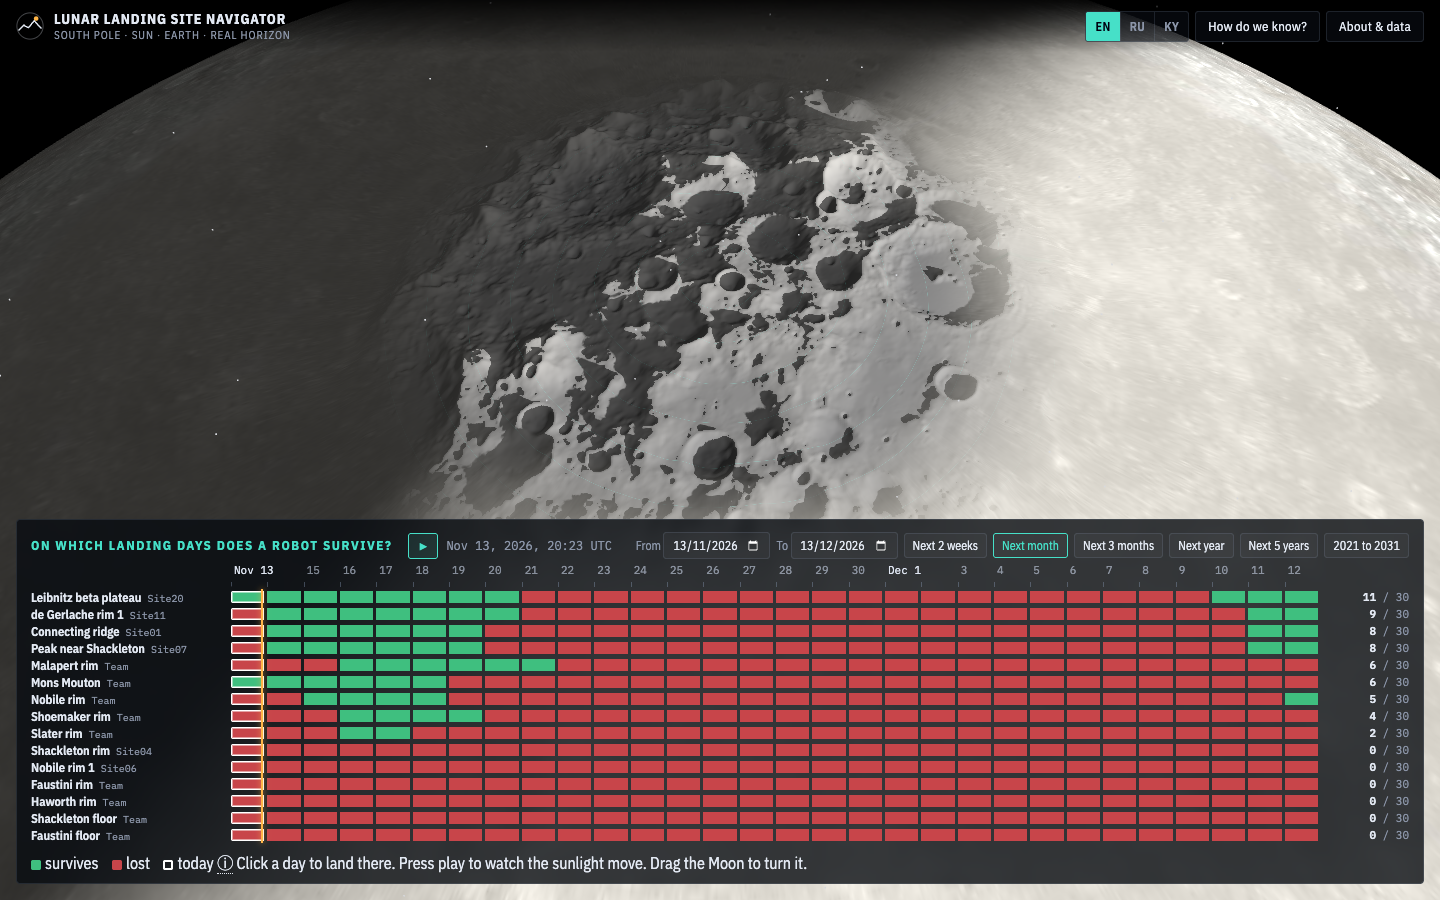
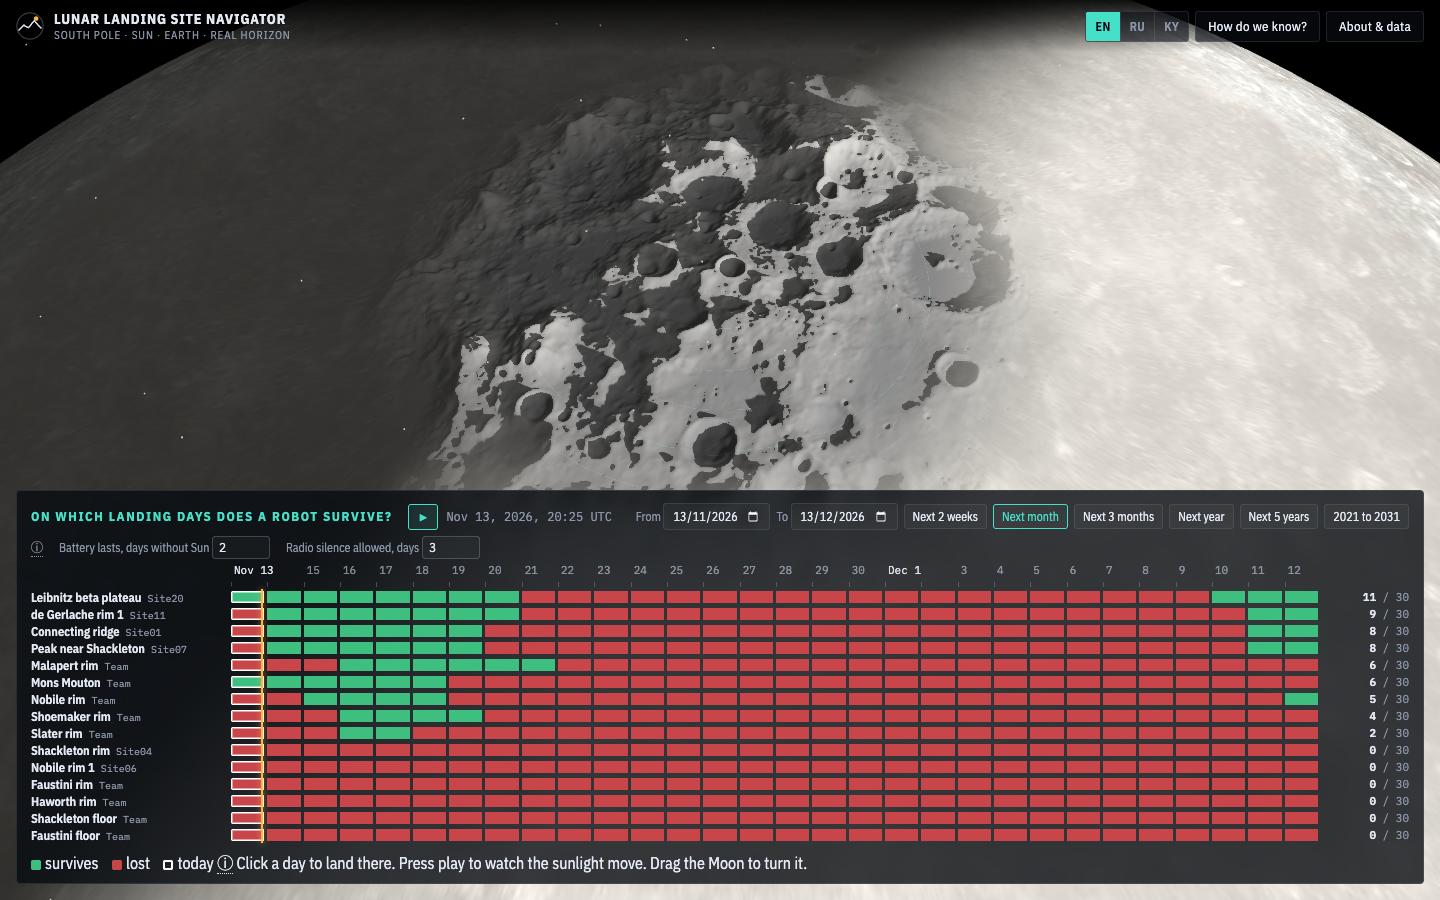
Mission limits are the user's: battery and radio-silence days can be set on the first screen, every site and day is judged again, the address carries a changed limit

diff --git a/app/i18n.js b/app/i18n.js
@@ -3,6 +3,10 @@
 (function (root) {
   const S = {
   "en": {
+    "aBattery": "Battery lasts, days without Sun",
+    "aRadio": "Radio silence allowed, days",
+    "aReset": "Reset",
+    "aLimitsTip": "Your mission, your limits. Green and red are judged with these two numbers: how long the battery carries the robot with the Sun hidden, and how long it may go without a direct link to Earth. 2 and 3 days are our example values, not NASA requirements. Change them and every site and day is judged again.",
     "sAt": "Sky at",
     "sSun": "Sun",
     "sEarth": "Earth",
@@ -36,9 +40,9 @@
     "colLimit": "Limit",
     "lEva": "under 20°",
     "lLight": "within 24 h",
-    "lNight": "at most 2 days",
+    "lNight": "at most {n} days",
     "lPole": "within 6°",
-    "lRadio": "at most 3 days",
+    "lRadio": "at most {n} days",
     "lSlope": "under 10°",
     "m5Next": "1 day",
     "m5Note": "Days in the past are history and days ahead are a prediction: Sun and Earth positions are calculated for each day from the orbit model, and the terrain does not change.",
@@ -47,7 +51,7 @@
     "m5Today": "Today",
     "mFail": "THE ROBOT WAS LOST",
     "mLostShort": "lost",
-    "mNote": "The 2 day battery, the 3 day radio limit and the first day Sun rule are teaching values chosen by the team. The slope and pole limits are NASA Artemis III requirements. Landing is at 00:00 UTC. Sun up means at least half of its disc is above the real terrain.",
+    "mNote": "The battery and radio limits (2 and 3 days unless you change them on the first screen) and the first day Sun rule are example values chosen by the team, not NASA requirements. The slope and pole limits are NASA Artemis III requirements. Landing is at 00:00 UTC. Sun up means at least half of its disc is above the real terrain.",
     "mOkShort": "survives",
     "mPass": "THE ROBOT SURVIVED",
     "mWhyBoth": "This spot lost both the Sun and Earth for too long.",
@@ -89,6 +93,10 @@
     "vYear": "year"
   },
   "ru": {
+    "aBattery": "Батареи хватает, дней без Солнца",
+    "aRadio": "Допустимо без связи, дней",
+    "aReset": "Сбросить",
+    "aLimitsTip": "Ваша миссия, ваши пределы. Зелёный и красный считаются по этим двум числам: сколько батарея держит робота, пока Солнце скрыто, и сколько он может быть без прямой связи с Землёй. 2 и 3 дня: наши примерные значения, не требования NASA. Измените их, и каждое место и каждый день будут оценены заново.",
     "sAt": "Небо на",
     "sSun": "Солнце",
     "sEarth": "Земля",
@@ -122,9 +130,9 @@
     "colLimit": "Предел",
     "lEva": "меньше 20°",
     "lLight": "в первые 24 ч",
-    "lNight": "не больше 2 дней",
+    "lNight": "не больше {n} дн.",
     "lPole": "в пределах 6°",
-    "lRadio": "не больше 3 дней",
+    "lRadio": "не больше {n} дн.",
     "lSlope": "меньше 10°",
     "m5Next": "1 день",
     "m5Note": "Прошедшие дни: история, будущие: прогноз. Положения Солнца и Земли рассчитываются для каждого дня по модели орбит, рельеф не меняется.",
@@ -133,7 +141,7 @@
     "m5Today": "Сегодня",
     "mFail": "РОБОТ ПОТЕРЯН",
     "mLostShort": "потерян",
-    "mNote": "Батарея на 2 дня, предел радио 3 дня и правило Солнца в первый день: учебные значения команды. Пределы уклона и расстояния от полюса: требования NASA Artemis III. Посадка в 00:00 UTC. Солнце светит, когда над настоящим рельефом видно не меньше половины диска.",
+    "mNote": "Пределы батареи и радио (2 и 3 дня, если не изменить их на первом экране) и правило Солнца в первый день: примерные значения команды, не требования NASA. Пределы уклона и расстояния от полюса: требования NASA Artemis III. Посадка в 00:00 UTC. Солнце светит, когда над настоящим рельефом видно не меньше половины диска.",
     "mOkShort": "выживает",
     "mPass": "РОБОТ ВЫЖИЛ",
     "mWhyBoth": "В этом месте и Солнце, и Земля пропали слишком надолго.",
@@ -175,6 +183,10 @@
     "vYear": "год"
   },
   "ky": {
+    "aBattery": "Батарея жетет, Күнсүз күн",
+    "aRadio": "Байланышсыз уруксат, күн",
+    "aReset": "Баштапкы",
+    "aLimitsTip": "Сиздин миссия, сиздин чектер. Жашыл жана кызыл ушул эки сан менен эсептелет: Күн жашырылганда батарея роботту канча кармайт жана ал Жер менен түз байланышсыз канча тура алат. 2 жана 3 күн: биздин мисал маанилер, NASA талаптары эмес. Өзгөртсөңүз, ар бир жер жана ар бир күн кайра бааланат.",
     "sAt": "Асман",
     "sSun": "Күн",
     "sEarth": "Жер",
@@ -208,9 +220,9 @@
     "colLimit": "Чек",
     "lEva": "20° төмөн",
     "lLight": "24 саат ичинде",
-    "lNight": "2 күндөн ашпайт",
+    "lNight": "{n} күндөн ашпайт",
     "lPole": "6° ичинде",
-    "lRadio": "3 күндөн ашпайт",
+    "lRadio": "{n} күндөн ашпайт",
     "lSlope": "10° төмөн",
     "m5Next": "1 күн",
     "m5Note": "Өткөн күндөр: тарых, келечек күндөр: болжолдоо. Күн менен Жердин орду ар бир күн үчүн орбита модели боюнча эсептелет, рельеф өзгөрбөйт.",
@@ -219,7 +231,7 @@
     "m5Today": "Бүгүн",
     "mFail": "РОБОТ ЖОГОЛДУ",
     "mLostShort": "жоголду",
-    "mNote": "2 күндүк батарея, 3 күндүк радио чеги жана биринчи күнкү Күн эрежеси: команда тандаган окуу маанилери. Эңкейиш жана уюлдан аралык чектери: NASA Artemis III талаптары. Конуу 00:00 UTC. Күн чыгып турат дегени: дисктин жарымынан көбү чыныгы рельефтен жогору.",
+    "mNote": "Батарея жана радио чектери (биринчи экранда өзгөртпөсө 2 жана 3 күн) жана биринчи күнкү Күн эрежеси: команда тандаган мисал маанилер, NASA талаптары эмес. Эңкейиш жана уюлдан аралык чектери: NASA Artemis III талаптары. Конуу 00:00 UTC. Күн чыгып турат дегени: дисктин жарымынан көбү чыныгы рельефтен жогору.",
     "mOkShort": "аман калат",
     "mPass": "РОБОТ АМАН КАЛДЫ",
     "mWhyBoth": "Бул жерде Күн да, Жер да өтө узакка жоголду.",

diff --git a/app/src/allsites.js b/app/src/allsites.js
@@ -20,7 +20,8 @@ export function dayVerdicts(sky, slope, evaSlope, days) {
 }
 
 /** root: the panel element. sites: [{ id, name, ref, dir, slope, evaSlope }]. p0, p1: period (unix s). onPick(id, t or null). */
-export function allSites(root, { sites, days, p0, p1, onPick, onHover = () => {}, onTime = () => {}, onPlay = () => {} }) {
+export function allSites(root, { sites, days, p0, p1, onPick, onHover = () => {}, onTime = () => {}, onPlay = () => {}, onLimits = () => {} }) {
+  const Mi = globalThis.Mission;
   const nd = Math.floor(((p1 - p0) / 3600 + 1 - days * 24) / 24) + 1;
   const today = Math.floor(Date.now() / 1000 / DAY) * DAY, td = Math.round((today - p0) / DAY);
   const clampDay = (d) => Math.min(Math.max(d, 0), nd);
@@ -33,6 +34,7 @@ export function allSites(root, { sites, days, p0, p1, onPick, onHover = () => {}
       <label><span></span> <input type="date" id="a-from" min="${iso(p0)}" max="${iso(p0 + (nd - 1) * DAY)}"></label>
       <label><span></span> <input type="date" id="a-to" min="${iso(p0 + DAY)}" max="${iso(p0 + nd * DAY)}"></label>
       <button data-y="2w"></button><button data-y="1m"></button><button data-y="0.25"></button><button data-y="1"></button><button data-y="5"></button><button data-y="0"></button></div></div>
+    <div class="a-mission"><span class="tip" tabindex="0">ⓘ</span> <label><span></span> <input id="a-night" type="number" min="0" max="30" step="0.5"></label><label><span></span> <input id="a-radio" type="number" min="0" max="30" step="0.5"></label><button id="a-reset"></button></div>
     <div class="a-row a-axis"><span></span><canvas></canvas><span></span></div>
     <ol id="sites"><div id="a-headline"></div></ol>
     <p class="v-key"><i class="ok"></i><span></span> <i class="bad"></i><span></span> <i class="cur"></i><span></span> <span class="tip" tabindex="0">ⓘ</span> <span class="a-hint"></span></p>
@@ -142,6 +144,10 @@ export function allSites(root, { sites, days, p0, p1, onPick, onHover = () => {}
     const key = root.querySelectorAll('.v-key > span');
     key[0].textContent = L('mOkShort'); key[1].textContent = L('mLostShort'); key[2].textContent = L('aToday');
     key[3].dataset.tip = L('aTip'); key[4].textContent = L('aHint');
+    const [ln, lr] = root.querySelectorAll('.a-mission label span'); ln.textContent = L('aBattery'); lr.textContent = L('aRadio');
+    root.querySelector('.a-mission .tip').dataset.tip = L('aLimitsTip'); root.querySelector('#a-reset').textContent = L('aReset');
+    for (const [id, k] of [['#a-night', 'nightH'], ['#a-radio', 'silenceH']]) { const el = root.querySelector(id); if (document.activeElement !== el) el.value = +(Mi.limits[k] / 24).toFixed(1); }
+    root.querySelector('#a-reset').hidden = Mi.limits.nightH === Mi.NIGHT_LIMIT_H && Mi.limits.silenceH === Mi.SILENCE_LIMIT_H;
     paintAxis();
     for (const s of sites) {
       s.good = paintRow(s);
@@ -162,13 +168,25 @@ export function allSites(root, { sites, days, p0, p1, onPick, onHover = () => {}
   redraw();
   (async () => {
     for (const s of sites) {
-      s.v = dayVerdicts(await loadSky(s.dir), s.slope, s.evaSlope, days);
+      s.sky = await loadSky(s.dir);
+      s.v = dayVerdicts(s.sky, s.slope, s.evaSlope, days);
       redraw();
       await new Promise((r) => setTimeout(r)); // let the row paint before the next site is computed
     }
     st.ready = true; redraw();
   })();
   root.querySelector('#a-play').onclick = () => onPlay();
+  // The mission's own limits: every site and day is judged again with them, here and on the site screen.
+  function setLimits(nightDays, radioDays) {
+    const ok = (v) => Number.isFinite(v) && v >= 0 && v <= 30;
+    if (ok(nightDays)) Mi.limits.nightH = nightDays * 24;
+    if (ok(radioDays)) Mi.limits.silenceH = radioDays * 24;
+    for (const s of sites) if (s.sky) s.v = dayVerdicts(s.sky, s.slope, s.evaSlope, days);
+    redraw(); onLimits();
+  }
+  root.querySelector('#a-night').onchange = (e) => setLimits(+e.target.value, NaN);
+  root.querySelector('#a-radio').onchange = (e) => setLimits(NaN, +e.target.value);
+  root.querySelector('#a-reset').onclick = () => setLimits(Mi.NIGHT_LIMIT_H / 24, Mi.SILENCE_LIMIT_H / 24);
   /** Moves the time line over the rows and writes the clock. t: unix s. */
   const head = root.querySelector('#a-headline'), clock = root.querySelector('#a-clock'), play = root.querySelector('#a-play');
   function setHead(t, playing) {
@@ -179,5 +197,5 @@ export function allSites(root, { sites, days, p0, p1, onPick, onHover = () => {}
     if (clock.textContent !== txt) clock.textContent = txt;
     play.textContent = playing ? '❚❚' : '▶'; play.title = L('aPlay');
   }
-  return { redraw, setHead, range: () => [p0 + st.a * DAY, p0 + st.b * DAY] };
+  return { redraw, setHead, setLimits, range: () => [p0 + st.a * DAY, p0 + st.b * DAY] };
 }

diff --git a/app/mission.js b/app/mission.js
@@ -1,11 +1,13 @@
 // The survival rules for a solar robot staying 14 days. Pure logic, checked at every boundary by tools/test.cjs.
 (function (root) {
-  // Teaching values chosen by the team, not NASA requirements.
+  // Example values chosen by the team, not NASA requirements. The first two are defaults: the user can change them
+  // on the first screen (limits.nightH, limits.silenceH), because a real mission knows its own battery and radio.
   const NIGHT_LIMIT_H = 48; // the battery carries the robot through two days of darkness
   const SILENCE_LIMIT_H = 72; // three days without direct Earth contact and the mission is lost
   const FIRST_SUN_H = 24; // the Sun must be up at landing or rise within a day, so the robot can charge
   const STAY_DAYS = 14;
   const SLOPE_LIMIT = 10, EVA_SLOPE_LIMIT = 20, POLE_LIMIT_DEG = 6; // NASA Artemis III landing site requirements
+  const limits = { nightH: NIGHT_LIMIT_H, silenceH: SILENCE_LIMIT_H };
 
   // x: { m: { longestDarkH, longestBlackoutH, sunPct, earthPct, bothPct, sunElMax, commWindows }, waitH: hours until the
   // Sun is first up (0 when up at landing, Infinity when it never rises in the stay), slope, evaSlope, lat }.
@@ -13,8 +15,8 @@
   function judge(x) {
     const m = x.m;
     return [
-      { id: 'night', pri: 'must', ok: m.longestDarkH <= NIGHT_LIMIT_H, v: m.longestDarkH },
-      { id: 'radio', pri: 'must', ok: m.longestBlackoutH <= SILENCE_LIMIT_H, v: m.longestBlackoutH },
+      { id: 'night', pri: 'must', ok: m.longestDarkH <= limits.nightH, v: m.longestDarkH },
+      { id: 'radio', pri: 'must', ok: m.longestBlackoutH <= limits.silenceH, v: m.longestBlackoutH },
       { id: 'light', pri: 'must', ok: x.waitH < FIRST_SUN_H, v: x.waitH },
       { id: 'slope', pri: 'must', ok: x.slope < SLOPE_LIMIT, v: x.slope },
       { id: 'eva', pri: 'should', ok: x.evaSlope < EVA_SLOPE_LIMIT, v: x.evaSlope },
@@ -27,7 +29,7 @@
     ];
   }
 
-  const Mission = { NIGHT_LIMIT_H, SILENCE_LIMIT_H, FIRST_SUN_H, STAY_DAYS, SLOPE_LIMIT, EVA_SLOPE_LIMIT, POLE_LIMIT_DEG, judge };
+  const Mission = { NIGHT_LIMIT_H, SILENCE_LIMIT_H, FIRST_SUN_H, STAY_DAYS, SLOPE_LIMIT, EVA_SLOPE_LIMIT, POLE_LIMIT_DEG, limits, judge };
   if (typeof module !== 'undefined' && module.exports) module.exports = Mission;
   else root.Mission = Mission;
 })(typeof globalThis !== 'undefined' ? globalThis : this);

diff --git a/app/src/main.js b/app/src/main.js
@@ -51,9 +51,11 @@ const missionEnd = () => Math.min(S.missionStart + S.missionDays * 86400, period
 
 function setHash() {
   // One short address: the site and the landing day. Expert state (stay length, clock time, centre point) is not kept in it.
-  const p = new URLSearchParams();
+  const p = new URLSearchParams(), Mi = globalThis.Mission;
   if (S.mode === 'surface') p.set('site', S.siteId);
   p.set('land', isoLocal(S.missionStart).slice(0, 10));
+  if (Mi.limits.nightH !== Mi.NIGHT_LIMIT_H) p.set('battery', Mi.limits.nightH / 24); // only when the user changed a limit
+  if (Mi.limits.silenceH !== Mi.SILENCE_LIMIT_H) p.set('radio', Mi.limits.silenceH / 24);
   history.replaceState(null, '', location.pathname + '#' + p.toString());
 }
 
@@ -72,6 +74,7 @@ function buildSiteList() {
     sites: S.index.sites.map((s) => { const v = s.variants[spot(s)]; return { id: s.id, name: s.name, ref: s.ref, dir: v.dir, slope: v.slope_deg, evaSlope: S.extra[v.dir] ?? v.slope_deg }; }),
     days: S.missionDays, p0: periodStart(), p1: periodEnd(),
     onHover: hot,
+    onLimits: () => { setHash(); drawVerdict(); },
     onTime: (t) => { S.mapT = t; S.mapPlay = false; },
     onPlay: () => { S.mapPlay = !S.mapPlay; },
     onPick: (id, t) => { if (t != null) { S.missionStart = t; S.t = t; } enterSite(id, spot(siteEntry(id))); },
@@ -568,6 +571,7 @@ function frame(now) {
     S.missionStart = Number.isFinite(landing) ? landing : periodStart();
     S.missionDays = 14; // the survival limits are set for a 14 day stay; "Details" can change it
     S.mapT = Math.floor(Date.now() / 1000);
+    for (const [k, f] of [['battery', 'nightH'], ['radio', 'silenceH']]) { const v = parseFloat(p.get(k)); if (v >= 0 && v <= 30) globalThis.Mission.limits[f] = v * 24; }
     buildSiteList();
     const t = S.missionStart;
     S.t = Number.isFinite(t) ? t : S.missionStart;

diff --git a/app/css/app.css b/app/css/app.css
@@ -322,3 +322,8 @@ body.mode-surface .skymark { display: none !important; }
 #sky-when { background: #0d1118; border: 1px solid var(--line-2); border-radius: 3px; padding: 3px 6px; color: var(--text); font: 12px var(--mono); color-scheme: dark; }
 #skybar strong { font: 600 22px var(--mono); min-width: 92px; } #skybar .sun strong { color: var(--sun); } #skybar .earth strong { color: var(--earth); }
 #skybar span { font-size: 11px; line-height: 1.35; color: var(--muted); } #skybar b { width: auto; min-width: 44px; }
+/* the mission's own limits, on the first screen */
+.a-mission { display: flex; flex-wrap: wrap; gap: 6px 16px; align-items: center; font-size: 12px; color: var(--muted); margin: 0 0 6px; }
+.a-mission input { width: 58px; background: rgba(255,255,255,.03); border: 1px solid var(--line-2); border-radius: 3px; padding: 3px 6px; color: var(--text); font: 12px var(--mono); color-scheme: dark; }
+.a-mission button { background: none; border: 1px solid var(--line); border-radius: 3px; color: var(--muted); padding: 3px 8px; font: inherit; cursor: pointer; }
+.a-mission .tip { position: relative; cursor: help; }

diff --git a/app/src/verdict.js b/app/src/verdict.js
@@ -26,7 +26,8 @@ function cells(r) {
   const pct = (v) => L('vOfStay', { p: v.toFixed(0) }), deg = (v) => v.toFixed(1) + '°', d = (h) => L('vDays', { t: (h / 24).toFixed(1) });
   const value = { night: d, radio: d, light: (h) => (!h ? L('vUp') : h < Infinity ? L('vAfter', { t: h.toFixed(0) }) : L('vNone')), slope: deg, eva: deg, pole: deg,
     sunPct: pct, earthPct: pct, bothPct: pct, sunMax: deg, windows: (v) => v }[r.id](r.v);
-  return [value, r.pri === 'info' ? '' : L('l' + cap(r.id))];
+  const days = { night: Mi.limits.nightH / 24, radio: Mi.limits.silenceH / 24 }[r.id];
+  return [value, r.pri === 'info' ? '' : L('l' + cap(r.id), { n: +(days ?? 0).toFixed(1) })];
 }
 const iso = (t) => new Date(t * 1000).toISOString().slice(0, 10);
 const longDate = (t) => new Date(t * 1000).toLocaleDateString(I.lang, { day: 'numeric', month: 'long', year: 'numeric', timeZone: 'UTC' });

diff --git a/README.md b/README.md
@@ -33,7 +33,7 @@ NASA Space Apps Challenge 2026, challenge "Lunar Landing Site Navigator". Team *
 | NASA site rule | Distance from the south pole | within 6° | NASA Artemis III requirement |
 | Good to know | Time in sunlight, time with Earth in view, both together, highest Sun, radio windows | none | shown only |
 
-The robot survives when the four "must pass" checks pass. The rules are in `app/mission.js`.
+The robot survives when the four "must pass" checks pass. The battery and radio limits are the user's to change on the first screen; every site and day is then judged again. The rules are in `app/mission.js`.
 
 ## How we know it is right
 
